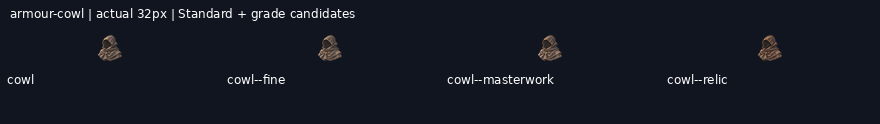
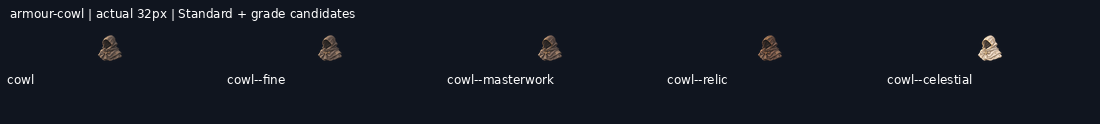
art: draw armour-cowl--celestial grade candidate

diff --git a/art/_archive/gear/2026-11-19-kept-blade-grades/HANDOFF.md b/art/_archive/gear/2026-11-19-kept-blade-grades/HANDOFF.md
@@ -1,6 +1,6 @@
 # Gear grade candidates
 
-**128/208 grade candidates delivered** on `art/2026-11-19-kept-blade-grades`. Shared mailbox: https://github.com/leonpentastorm/Project-Heaven-Cry/issues/3 . See claim.json for this lane’s current Standards. Released overlapping blades reuse12 peer candidates, with3 local alternatives archived.
+**129/208 grade candidates delivered** on `art/2026-11-19-kept-blade-grades`. Shared mailbox: https://github.com/leonpentastorm/Project-Heaven-Cry/issues/3 . See claim.json for this lane’s current Standards. Released overlapping blades reuse12 peer candidates, with3 local alternatives archived.
 
 Leon requested continuous candidate production; proof approval is not fabricated. All candidates remain review-candidate, production_approved:false, implementation_ready:false, with outline.review_required:true. Exact outline is measured, never asserted unless the masks match. Per-image registration is uniform scaling/translation only, without warp, silhouette masks, filled pixels or code-drawn substitutes. The generated native remains untouched.
 
@@ -10,12 +10,12 @@ Tomorrow: fetch this branch and develop safely, read the latest issue 3 comments
 
 Peer audit: [coordination/peer-audit-2026-11-19.md](coordination/peer-audit-2026-11-19.md). Peer58 masters/232 exports and12 canonical imports are integrated with versioned alpha<8 cleanup; originals are retained. See coordination/peer-import-v2/manifest.json and post-catalog VALIDATION.json (strict margins pass, solid alpha unchanged). Peer quota resets20 November2026 at09:45:39 Bangkok time; this does not establish this session’s quota.
 
-Remaining: weapon-ork_machete--masterwork, weapon-ork_machete--relic, weapon-ork_machete--celestial, weapon-war_axe--fine, weapon-war_axe--masterwork, weapon-war_axe--relic, weapon-war_axe--celestial, weapon-parlour_pistol--fine, weapon-parlour_pistol--masterwork, weapon-parlour_pistol--relic, weapon-parlour_pistol--celestial, weapon-lever_carbine--fine, weapon-lever_carbine--masterwork, weapon-lever_carbine--relic, weapon-lever_carbine--celestial, weapon-sawn_off--fine, weapon-sawn_off--masterwork, weapon-sawn_off--relic, weapon-sawn_off--celestial, weapon-coach_gun--fine, weapon-coach_gun--masterwork, weapon-coach_gun--relic, weapon-coach_gun--celestial, weapon-legion_bullpup--fine, weapon-legion_bullpup--masterwork, weapon-legion_bullpup--relic, weapon-legion_bullpup--celestial, weapon-whisper_smg--fine, weapon-whisper_smg--masterwork, weapon-whisper_smg--relic, weapon-whisper_smg--celestial, armour-cowl--celestial, armour-hood--fine, armour-hood--masterwork, armour-hood--relic, armour-hood--celestial, armour-blackout_hood--fine, armour-blackout_hood--masterwork, armour-blackout_hood--relic, armour-blackout_hood--celestial, armour-spotters_monocle--fine, armour-spotters_monocle--masterwork, armour-spotters_monocle--relic, armour-spotters_monocle--celestial, armour-sight_visor--fine, armour-sight_visor--masterwork, armour-sight_visor--relic, armour-sight_visor--celestial, armour-breather--fine, armour-breather--masterwork, armour-breather--relic, armour-breather--celestial, armour-sealed_visor--fine, armour-sealed_visor--masterwork, armour-sealed_visor--relic, armour-sealed_visor--celestial, armour-breacher_plate--fine, armour-breacher_plate--masterwork, armour-breacher_plate--relic, armour-breacher_plate--celestial, armour-mesh_undersuit--fine, armour-mesh_undersuit--masterwork, armour-mesh_undersuit--relic, armour-mesh_undersuit--celestial, armour-rig_belt--fine, armour-rig_belt--masterwork, armour-rig_belt--relic, armour-rig_belt--celestial, armour-field_trousers--fine, armour-field_trousers--masterwork, armour-field_trousers--relic, armour-field_trousers--celestial, armour-tactical_gloves--fine, armour-tactical_gloves--masterwork, armour-tactical_gloves--relic, armour-tactical_gloves--celestial, armour-jump_boots--fine, armour-jump_boots--masterwork, armour-jump_boots--relic, armour-jump_boots--celestial.
+Remaining: weapon-ork_machete--masterwork, weapon-ork_machete--relic, weapon-ork_machete--celestial, weapon-war_axe--fine, weapon-war_axe--masterwork, weapon-war_axe--relic, weapon-war_axe--celestial, weapon-parlour_pistol--fine, weapon-parlour_pistol--masterwork, weapon-parlour_pistol--relic, weapon-parlour_pistol--celestial, weapon-lever_carbine--fine, weapon-lever_carbine--masterwork, weapon-lever_carbine--relic, weapon-lever_carbine--celestial, weapon-sawn_off--fine, weapon-sawn_off--masterwork, weapon-sawn_off--relic, weapon-sawn_off--celestial, weapon-coach_gun--fine, weapon-coach_gun--masterwork, weapon-coach_gun--relic, weapon-coach_gun--celestial, weapon-legion_bullpup--fine, weapon-legion_bullpup--masterwork, weapon-legion_bullpup--relic, weapon-legion_bullpup--celestial, weapon-whisper_smg--fine, weapon-whisper_smg--masterwork, weapon-whisper_smg--relic, weapon-whisper_smg--celestial, armour-hood--fine, armour-hood--masterwork, armour-hood--relic, armour-hood--celestial, armour-blackout_hood--fine, armour-blackout_hood--masterwork, armour-blackout_hood--relic, armour-blackout_hood--celestial, armour-spotters_monocle--fine, armour-spotters_monocle--masterwork, armour-spotters_monocle--relic, armour-spotters_monocle--celestial, armour-sight_visor--fine, armour-sight_visor--masterwork, armour-sight_visor--relic, armour-sight_visor--celestial, armour-breather--fine, armour-breather--masterwork, armour-breather--relic, armour-breather--celestial, armour-sealed_visor--fine, armour-sealed_visor--masterwork, armour-sealed_visor--relic, armour-sealed_visor--celestial, armour-breacher_plate--fine, armour-breacher_plate--masterwork, armour-breacher_plate--relic, armour-breacher_plate--celestial, armour-mesh_undersuit--fine, armour-mesh_undersuit--masterwork, armour-mesh_undersuit--relic, armour-mesh_undersuit--celestial, armour-rig_belt--fine, armour-rig_belt--masterwork, armour-rig_belt--relic, armour-rig_belt--celestial, armour-field_trousers--fine, armour-field_trousers--masterwork, armour-field_trousers--relic, armour-field_trousers--celestial, armour-tactical_gloves--fine, armour-tactical_gloves--masterwork, armour-tactical_gloves--relic, armour-tactical_gloves--celestial, armour-jump_boots--fine, armour-jump_boots--masterwork, armour-jump_boots--relic, armour-jump_boots--celestial.
 
 Service-rejected requests (do not repeatedly resubmit): weapon-coach_gun--fine, weapon-legion_bullpup--fine, weapon-lever_carbine--fine, weapon-ork_machete--masterwork, weapon-parlour_pistol--fine, weapon-sawn_off--fine, weapon-war_axe--fine, weapon-whisper_smg--fine.
 
 Waiting on rejected prerequisites: weapon-coach_gun--celestial, weapon-coach_gun--masterwork, weapon-coach_gun--relic, weapon-legion_bullpup--celestial, weapon-legion_bullpup--masterwork, weapon-legion_bullpup--relic, weapon-lever_carbine--celestial, weapon-lever_carbine--masterwork, weapon-lever_carbine--relic, weapon-ork_machete--celestial, weapon-ork_machete--relic, weapon-parlour_pistol--celestial, weapon-parlour_pistol--masterwork, weapon-parlour_pistol--relic, weapon-sawn_off--celestial, weapon-sawn_off--masterwork, weapon-sawn_off--relic, weapon-war_axe--celestial, weapon-war_axe--masterwork, weapon-war_axe--relic, weapon-whisper_smg--celestial, weapon-whisper_smg--masterwork, weapon-whisper_smg--relic.
 
-Ready independent next steps, in queue order: armour-cowl--celestial, armour-hood--fine, armour-blackout_hood--fine, armour-spotters_monocle--fine, armour-sight_visor--fine, armour-breather--fine, armour-sealed_visor--fine, armour-breacher_plate--fine, armour-mesh_undersuit--fine, armour-rig_belt--fine, armour-field_trousers--fine, armour-tactical_gloves--fine, armour-jump_boots--fine. Other pending grades follow their preceding grade.
+Ready independent next steps, in queue order: armour-hood--fine, armour-blackout_hood--fine, armour-spotters_monocle--fine, armour-sight_visor--fine, armour-breather--fine, armour-sealed_visor--fine, armour-breacher_plate--fine, armour-mesh_undersuit--fine, armour-rig_belt--fine, armour-field_trousers--fine, armour-tactical_gloves--fine, armour-jump_boots--fine. Other pending grades follow their preceding grade.
 
 Runtime handoff: implementation_ready:false records review status but does not gate the web asset builder. The builder emits grade asset keys; the current UI gear resolver still needs grade-aware selection. Do not claim that runtime grade selection is implemented by these art deliveries.
